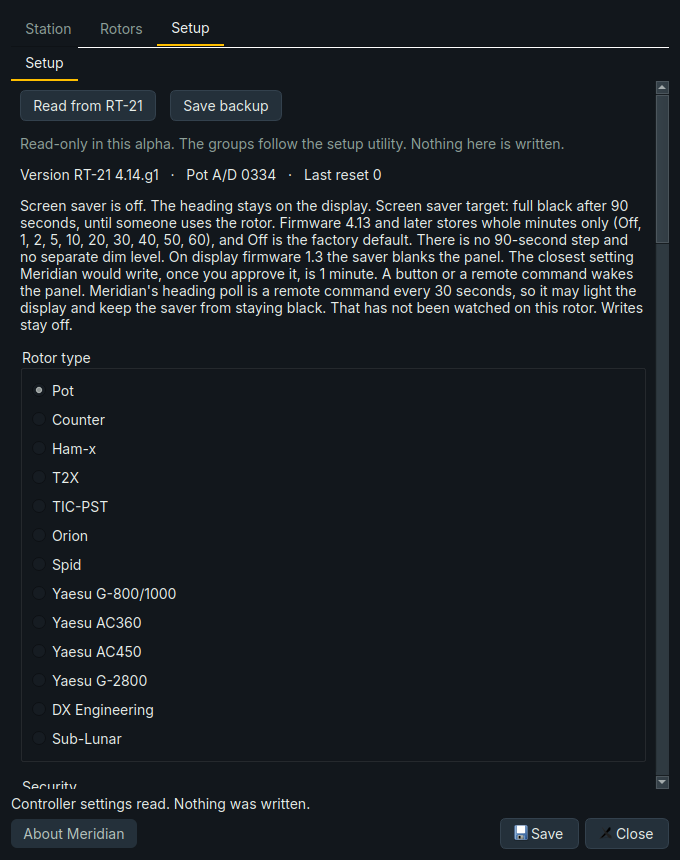
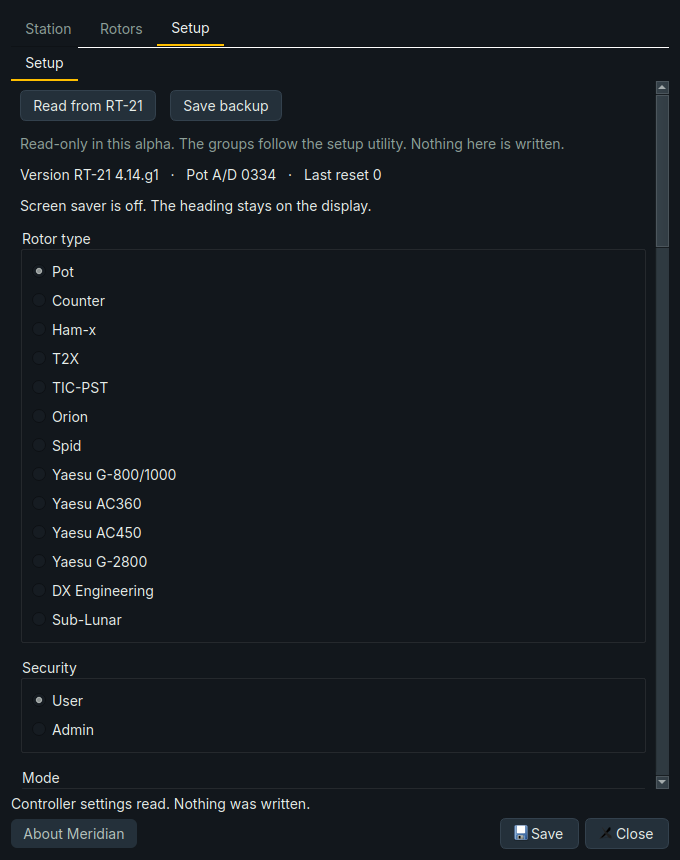
Treat the RT-21 screen saver as unsafe, and let Find share the COM port.
On 4.14.g1 a one-minute saver stops serial until a power cycle, so Setup no longer offers turning it on and a read that finds it on says to set it Off. Find closes the live link before it probes and writes each probe to the traffic log. A silent open keeps its status text and adds a power-cycle hint. Idle dim stays planned and unwritten.

Changed region(s): [[0.0309, 0.2116, 0.9574, 0.9372]]

diff --git a/src/rotor/Rt21Finder.cpp b/src/rotor/Rt21Finder.cpp
@@ -7,6 +7,8 @@
 #include "Rt21Finder.h"
 
 #include "Rt21Protocol.h"
+#include "SerialLines.h"
+#include "TrafficLog.h"
 
 #include <QElapsedTimer>
 #include <QEventLoop>
@@ -33,32 +35,37 @@ QString headingText(double heading)
     return QString::number(heading, 'f', 1);
 }
 
-std::optional<double> readHeading(QIODevice *device, int timeoutMs)
+std::optional<double> readHeading(QIODevice *device, int timeoutMs, QByteArray *raw)
 {
     Rt21::Framer framer;
     std::optional<double> heading;
+    auto take = [&]() {
+        const QByteArray chunk = device->readAll();
+        if (raw)
+            raw->append(chunk);
+        framer.append(chunk);
+        for (const QByteArray &frame : framer.take()) {
+            if (const auto parsed = Rt21::parseHeadingFrame(frame)) {
+                heading = parsed;
+                return true;
+            }
+        }
+        return false;
+    };
+    if (device->bytesAvailable() > 0 && take())
+        return heading;
     QEventLoop loop;
     QTimer cap;
     cap.setSingleShot(true);
     QObject::connect(&cap, &QTimer::timeout, &loop, &QEventLoop::quit);
     QObject::connect(device, &QIODevice::readyRead, &loop, [&]() {
-        framer.append(device->readAll());
-        for (const QByteArray &frame : framer.take()) {
-            if (const auto parsed = Rt21::parseHeadingFrame(frame)) {
-                heading = parsed;
-                loop.quit();
-                return;
-            }
-        }
+        if (take())
+            loop.quit();
     });
-    if (device->bytesAvailable() > 0)
-        framer.append(device->readAll());
-    for (const QByteArray &frame : framer.take()) {
-        if (const auto parsed = Rt21::parseHeadingFrame(frame))
-            return parsed;
-    }
     cap.start(timeoutMs);
     loop.exec();
+    if (device->bytesAvailable() > 0)
+        take();
     return heading;
 }
 
@@ -124,12 +131,23 @@ std::optional<FoundRotor> Rt21Finder::probeSerial(const QString &portName, const
     port.setParity(QSerialPort::NoParity);
     port.setStopBits(QSerialPort::OneStop);
     port.setFlowControl(QSerialPort::NoFlowControl);
+    const QByteArray where = portName.toLatin1() + " " + QByteArray::number(baud);
+    TrafficLog::instance().recordSession("FIND", QByteArray("probe ") + where + " " + kind.toLatin1());
     // In use, missing, or a virtual port another program owns: skip it quietly.
-    if (!port.open(QIODevice::ReadWrite))
+    if (!port.open(QIODevice::ReadWrite)) {
+        TrafficLog::instance().recordSession("FIND", QByteArray("open failed ") + where);
         return std::nullopt;
-    port.write(Rt21::queryTenths());
+    }
+    raiseDtrAndRts(&port);
+    const QByteArray query = Rt21::queryTenths();
+    TrafficLog::instance().recordSession("FIND-TX", query);
+    port.write(query);
     port.flush();
-    const auto heading = readHeading(&port, timeoutMs);
+    QByteArray rx;
+    const auto heading = readHeading(&port, timeoutMs, &rx);
+    TrafficLog::instance().recordSession("FIND-RX", rx);
+    TrafficLog::instance().recordSession(
+        "FIND", heading ? QByteArray("hit ") + where : QByteArray("no reply ") + where);
     port.close();
     if (!heading)
         return std::nullopt;
@@ -155,7 +173,7 @@ std::optional<FoundRotor> Rt21Finder::probeTcp(const QString &host, int port, in
     }
     socket.write(Rt21::queryTenths());
     socket.flush();
-    const auto heading = readHeading(&socket, timeoutMs);
+    const auto heading = readHeading(&socket, timeoutMs, nullptr);
     socket.disconnectFromHost();
     socket.close();
     if (!heading)

diff --git a/src/SettingsDialog.cpp b/src/SettingsDialog.cpp
@@ -253,7 +253,12 @@ void SettingsDialog::setDriver(Rt21Driver *next)
                 driver->readNetwork();
                 return;
             }
-            setStatus(QStringLiteral("Controller settings read. Nothing was written."));
+            QString done = QStringLiteral("Controller settings read. Nothing was written.");
+            bool saverOn = false;
+            const int saverMinutes = eeRaw.value(QStringLiteral("W")).toInt(&saverOn);
+            if (saverOn && saverMinutes > 0)
+                done += QLatin1Char(' ') + Rt21::screenSaverUnsafeNote();
+            setStatus(done);
         });
         connect(driver, &Rt21Driver::writeFinished, this, [this](bool ok, const QString &message) {
             const QString fallback = ok ? QStringLiteral("Read back the same value.")
@@ -286,9 +291,11 @@ void SettingsDialog::refreshDisplayCallout()
         else if (minutes == 0)
             saver = QStringLiteral("Screen saver is off. The heading stays on the display.");
         else
-            saver = QStringLiteral("Screen saver is %1 minutes.").arg(minutes);
+            saver = QStringLiteral("Screen saver is %1 minutes. %2")
+                        .arg(minutes)
+                        .arg(Rt21::screenSaverUnsafeNote());
     }
-    displayCallout->setText(saver + QLatin1Char(' ') + Rt21::screenSaverRecommendation());
+    displayCallout->setText(saver);
 }
 
 void SettingsDialog::exportSetup()
@@ -713,6 +720,16 @@ void SettingsDialog::startFind(bool networkOnly)
         foundKeys.clear();
         findNote->setText(QStringLiteral("Checking USB and COM ports…"));
         refreshUsbHints();
+        if (driver) {
+            const RotorEndpoint live = driver->linkEndpoint();
+            if (live.transport == RotorEndpoint::Transport::Serial && live.configured()
+                && driver->link() != Rt21Driver::Link::Off) {
+                resumeEndpoint = live;
+                resumeSerial = true;
+                TrafficLog::instance().recordSession("FIND", QByteArray("release ") + live.serialPort.toLatin1());
+                driver->disconnectLink();
+            }
+        }
     } else {
         findNote->setText(QStringLiteral("Checking the network…"));
     }
@@ -798,6 +815,11 @@ void SettingsDialog::finishFind(const QList<FoundRotor> &found, bool network)
             "Nothing found. Check the USB cable or driver, power, and close other apps using the port."));
     } else {
         findNote->setText(QStringLiteral("Pick the RT-21 to use."));
+    }
+    if (resumeSerial && driver) {
+        const RotorEndpoint again = resumeEndpoint;
+        resumeSerial = false;
+        driver->connectEndpoint(again);
     }
 }
 

diff --git a/src/rotor/Rt21Setup.cpp b/src/rotor/Rt21Setup.cpp
@@ -585,18 +585,23 @@ bool screenSaverMinuteAllowed(int minutes)
 
 int recommendedScreenSaverMinutes()
 {
-    // Shortest on-setting. 90 seconds is not a stored step.
-    return 1;
+    // Off. On 4.14.g1 a 1-minute saver stops serial until a power cycle.
+    return 0;
+}
+
+QString screenSaverUnsafeNote()
+{
+    return QStringLiteral(
+        "Screen saver is on. On firmware 4.14.g1 it stops serial and network replies after the timeout. Set it to Off.");
 }
 
 QString screenSaverRecommendation()
 {
     return QStringLiteral(
-        "Screen saver target: full black after 90 seconds, until someone uses the rotor. "
-        "Firmware 4.13 and later stores whole minutes only (Off, 1, 2, 5, 10, 20, 30, 40, 50, 60), and Off is the factory default. "
-        "There is no 90-second step and no separate dim level. On display firmware 1.3 the saver blanks the panel. "
-        "The closest setting Meridian would write, once you approve it, is 1 minute. "
-        "A button or a remote command wakes the panel. Meridian's heading poll is a remote command every 30 seconds, so it may light the display and keep the saver from staying black. That has not been watched on this rotor. Writes stay off.");
+        "Leave the rotor's screen saver Off. On firmware 4.14.g1, with it set to 1 minute, "
+        "serial and network replies stop about a minute after the controller goes idle and stay stopped until a power cycle. "
+        "Pressing Setup or Cancel wakes the display and not the port. With the saver off, polling ran 22 minutes with no timeouts. "
+        "Meridian's own idle dim, after 90 seconds without a click or a typed heading, is planned and is not in this build. Polls do not count as activity.");
 }
 
 QString advancedOptionsText(int value)
@@ -634,7 +639,7 @@ QString formatEeLine(const QString &id, const QString &raw)
         else if (!screenSaverMinuteAllowed(value))
             extra = QStringLiteral(". That is not one of the utility's steps.");
         else if (value > recommendedScreenSaverMinutes())
-            extra = QStringLiteral(". Longer than the 1 minute Meridian would use for an OLED.");
+            extra = QStringLiteral(". On firmware 4.14.g1 this stops serial and network replies after the timeout. Set it to Off.");
         return named(QStringLiteral("Screen saver"), state + extra);
     }
     if (id == QLatin1String("J"))

diff --git a/src/rotor/Rt21Driver.cpp b/src/rotor/Rt21Driver.cpp
@@ -7,6 +7,7 @@
 #include "Rt21Driver.h"
 
 #include "Reconnect.h"
+#include "SerialLines.h"
 #include "TrafficLog.h"
 #include "core/Bearing.h"
 
@@ -199,7 +200,8 @@ Rt21Driver::Rt21Driver(QObject *parent)
             useAiNext = true;
         if (failures >= 3) {
             const QString message = endpoint.transport == RotorEndpoint::Transport::Serial
-                                        ? QStringLiteral("%1 open, no reply from RT-21 — check port/baud or run Find")
+                                        ? QStringLiteral("%1 open, no reply from RT-21 — check port/baud or run Find. "
+                                                         "RT-21 not answering. If its screen saver is on, power-cycle it.")
                                               .arg(endpoint.serialPort)
                                         : QStringLiteral("No reply from the RT-21.");
             failLink(message);
@@ -553,8 +555,9 @@ void Rt21Driver::connectEndpoint(const RotorEndpoint &next)
         failLink(message);
         return;
     }
-    const bool dtr = serial->setDataTerminalReady(true);
-    const bool rts = serial->setRequestToSend(true);
+    bool dtr = false;
+    bool rts = false;
+    raiseDtrAndRts(serial, &dtr, &rts);
     serial->clear(QSerialPort::AllDirections);
     TrafficLog::instance().recordSession(
         "NOTE", QByteArray("serial open ") + endpoint.serialPort.toLatin1()
@@ -1039,7 +1042,9 @@ void Rt21Driver::stopMotion()
 QString Rt21Driver::noReplyMessage() const
 {
     if (endpoint.transport == RotorEndpoint::Transport::Serial)
-        return QStringLiteral("No reply from RT-21 on %1 — check port/baud or run Find").arg(endpoint.serialPort);
+        return QStringLiteral("No reply from RT-21 on %1 — check port/baud or run Find. "
+                              "RT-21 not answering. If its screen saver is on, power-cycle it.")
+            .arg(endpoint.serialPort);
     return QStringLiteral("No reply from RT-21 on %1:%2 — check port/baud or run Find")
         .arg(endpoint.host)
         .arg(endpoint.tcpPort);

diff --git a/src/rotor/SerialLines.h b/src/rotor/SerialLines.h
@@ -1,0 +1,38 @@
+/*
+ * Meridian — rotator controller for the Green Heron RT-21.
+ * Copyright (C) 2026 Andrew, K5PO
+ * SPDX-License-Identifier: GPL-3.0-or-later
+ */
+
+#pragma once
+
+#include <QSerialPort>
+
+#if defined(Q_OS_UNIX)
+#include <sys/ioctl.h>
+#endif
+
+// Setup Utility 4.B12 turns DTR and RTS on after open. Qt's
+// setRequestToSend crashes on a pty under Qt 6.4, so Unix uses ioctl,
+// which fails quietly when the device has no modem lines.
+inline bool raiseDtrAndRts(QSerialPort *port, bool *dtrOn = nullptr, bool *rtsOn = nullptr)
+{
+    bool dtr = false;
+    bool rts = false;
+    if (port && port->isOpen()) {
+#if defined(Q_OS_UNIX)
+        const int fd = static_cast<int>(port->handle());
+        int bits = TIOCM_DTR | TIOCM_RTS;
+        if (fd >= 0 && ::ioctl(fd, TIOCMBIS, &bits) == 0)
+            dtr = rts = true;
+#else
+        dtr = port->setDataTerminalReady(true);
+        rts = port->setRequestToSend(true);
+#endif
+    }
+    if (dtrOn)
+        *dtrOn = dtr;
+    if (rtsOn)
+        *rtsOn = rts;
+    return dtr && rts;
+}

diff --git a/tests/tst_setup.cpp b/tests/tst_setup.cpp
@@ -149,10 +149,11 @@ void TestSetup::mockNetworkRead()
 
 void TestSetup::screenSaverIsOnlyInTheDisplayGroup()
 {
-    QCOMPARE(Rt21::recommendedScreenSaverMinutes(), 1);
+    QCOMPARE(Rt21::recommendedScreenSaverMinutes(), 0);
     QVERIFY(!Rt21::screenSaverMinuteAllowed(90));
-    QVERIFY(Rt21::screenSaverRecommendation().contains(QStringLiteral("90 seconds")));
-    QVERIFY(Rt21::screenSaverRecommendation().contains(QStringLiteral("30 seconds")));
+    QVERIFY(Rt21::screenSaverRecommendation().contains(QStringLiteral("Off")));
+    QVERIFY(Rt21::screenSaverUnsafeNote().contains(QStringLiteral("4.14.g1")));
+    QVERIFY(Rt21::screenSaverUnsafeNote().contains(QStringLiteral("Set it to Off")));
 
     QMap<QString, QString> fields;
     fields.insert(QStringLiteral("screenSaver"), QStringLiteral("1"));

diff --git a/src/ControllerColumn.cpp b/src/ControllerColumn.cpp
@@ -232,6 +232,13 @@ ControllerColumn::ControllerColumn(QWidget *parent)
                 {QLatin1Char('W'), QStringLiteral("Screen saver")},
                 {QLatin1Char('R'), QStringLiteral("Alt 1")},
                 {QLatin1Char('S'), QStringLiteral("Alt 2")}});
+    auto *idle = new QCheckBox(QStringLiteral("Idle dim after 90 seconds"));
+    idle->setEnabled(false);
+    idle->setToolTip(QStringLiteral(
+        "Planned. After 90 seconds with no click or typed heading, Meridian drops display brightness "
+        "to 1 and restores it on the next interaction. Heading polls do not count. "
+        "The brightness write stays off until it has been checked on a real rotor."));
+    column->addWidget(idle);
 
     column->addStretch();
 }

diff --git a/src/main.cpp b/src/main.cpp
@@ -97,7 +97,7 @@ int main(int argc, char *argv[])
     QApplication::setOrganizationName(QStringLiteral("K5PO"));
     QApplication::setOrganizationDomain(QStringLiteral("k5po.example"));
     QApplication::setApplicationName(QStringLiteral("Meridian"));
-    QApplication::setApplicationVersion(QStringLiteral("0.1.0-alpha12"));
+    QApplication::setApplicationVersion(QStringLiteral("0.1.0-alpha13"));
     QApplication::setWindowIcon(appIcon());
     installFonts();
     installPalette(app);

diff --git a/src/MainWindow.cpp b/src/MainWindow.cpp
@@ -27,7 +27,7 @@ MainWindow::MainWindow(AppConfig initial, QSettings *store, QWidget *parent)
     , config(std::move(initial))
     , settings(store)
 {
-    setWindowTitle(QStringLiteral("Meridian 0.1.0-alpha12"));
+    setWindowTitle(QStringLiteral("Meridian 0.1.0-alpha13"));
     TrafficLog::instance().setEnabled(config.trafficLog);
     globe = new GlobeWidget;
     setCentralWidget(globe);

diff --git a/src/rotor/TrafficLog.cpp b/src/rotor/TrafficLog.cpp
@@ -87,7 +87,7 @@ void TrafficLog::ensureOpen()
     logFile().setFileName(path);
     opened = logFile().open(QIODevice::WriteOnly | QIODevice::Append | QIODevice::Unbuffered);
     if (opened)
-        writeLine(QStringLiteral("NOTE Meridian 0.1.0-alpha12 traffic log ") + path);
+        writeLine(QStringLiteral("NOTE Meridian 0.1.0-alpha13 traffic log ") + path);
 }
 
 void TrafficLog::flush()

diff --git a/src/rotor/Rt21Setup.h b/src/rotor/Rt21Setup.h
@@ -80,6 +80,7 @@ bool firmwareWritesAllowed(const QString &report);
 bool screenSaverMinuteAllowed(int minutes);
 int recommendedScreenSaverMinutes();
 QString screenSaverRecommendation();
+QString screenSaverUnsafeNote();
 QString formatEeLine(const QString &id, const QString &raw);
 QString advancedOptionsText(int value);
 

diff --git a/src/SettingsDialog.h b/src/SettingsDialog.h
@@ -127,6 +127,8 @@ private:
     bool haveSerialHold = false;
     QString serialHold;
     bool continueToNetwork = false;
+    bool resumeSerial = false;
+    RotorEndpoint resumeEndpoint;
 
 protected:
     void closeEvent(QCloseEvent *event) override;
